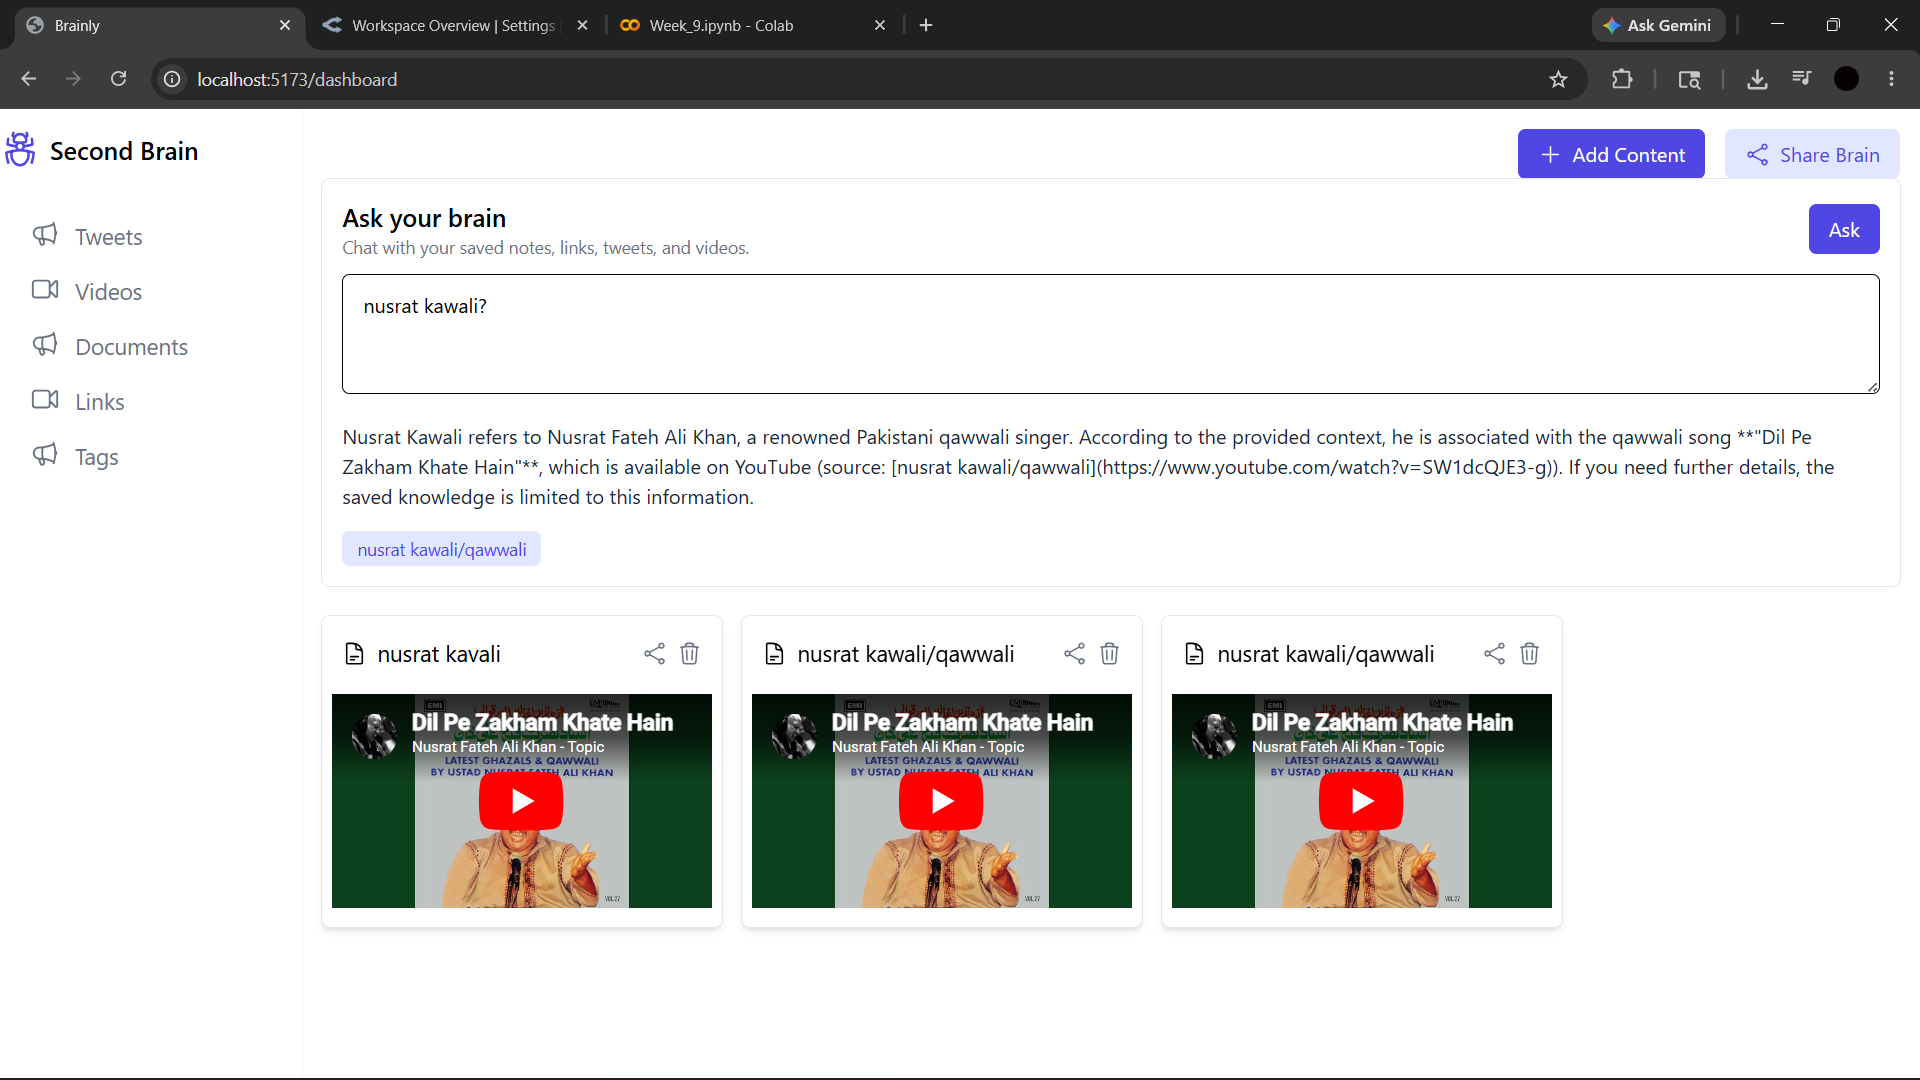
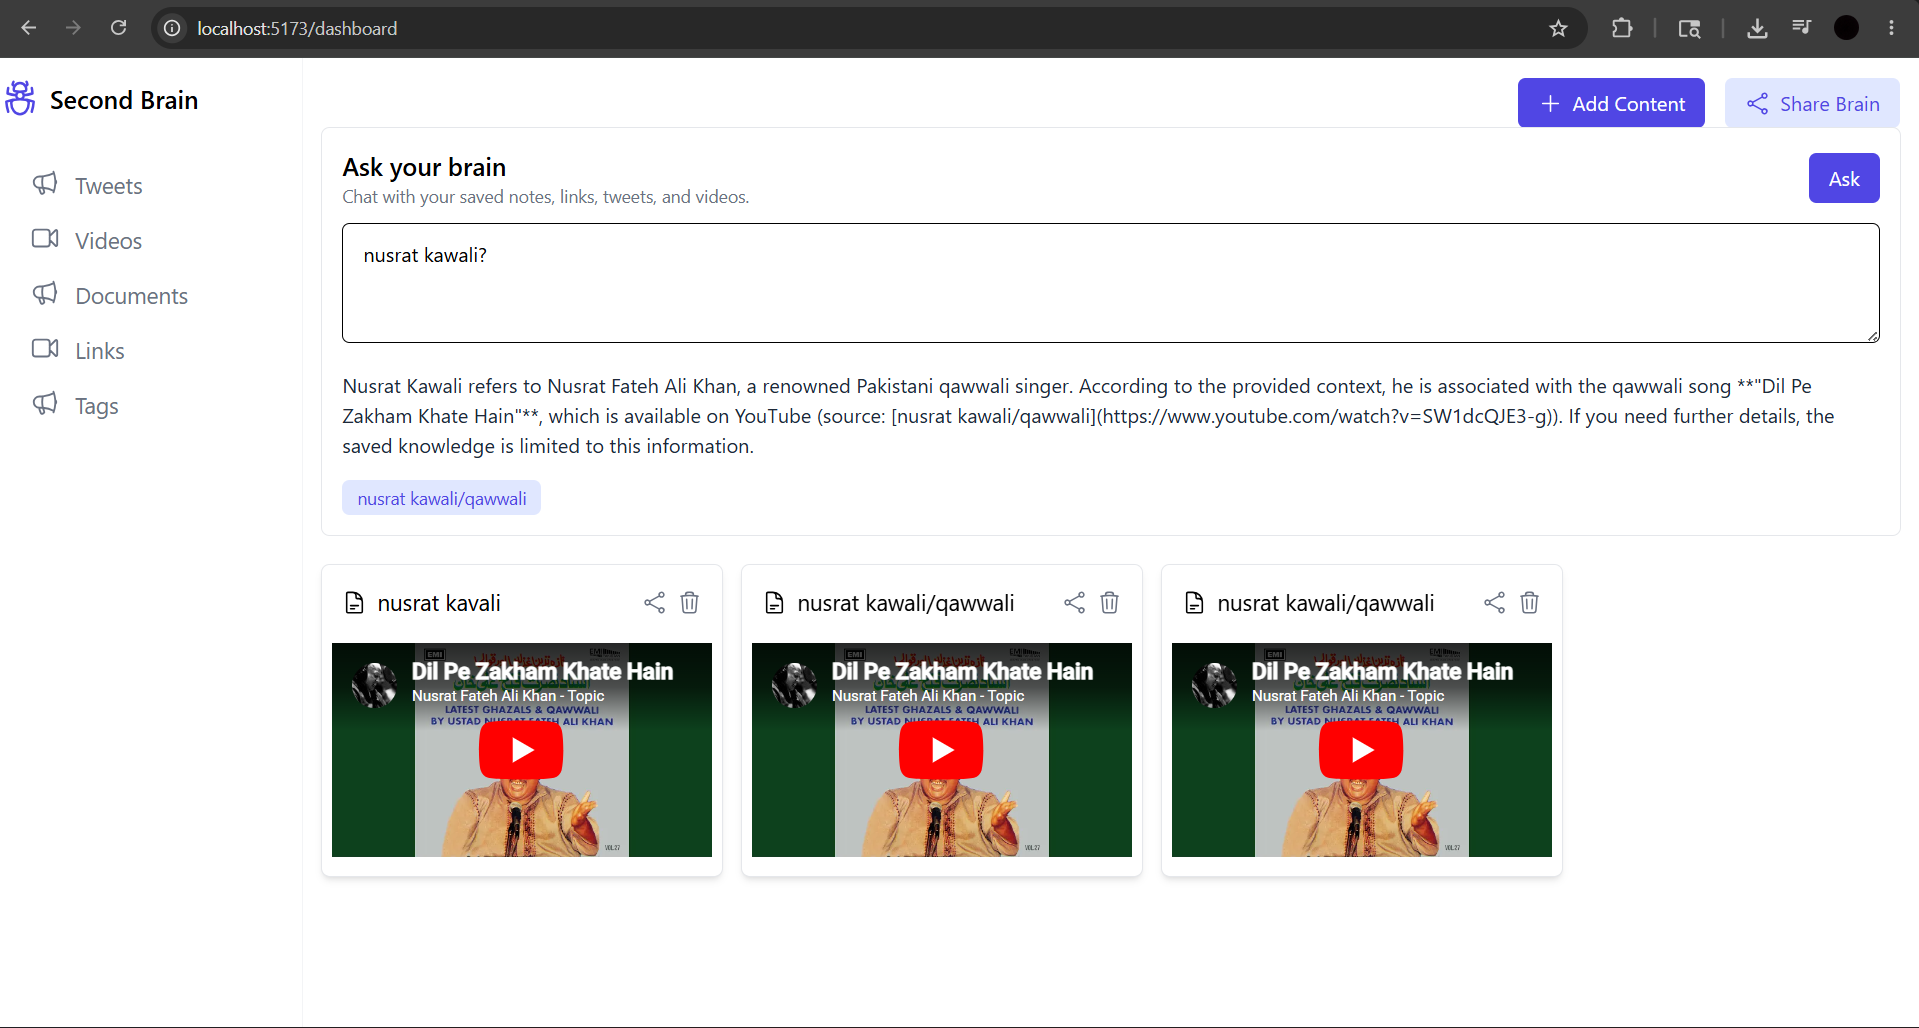
Update README.md

diff --git a/README.md b/README.md
@@ -2,10 +2,6 @@
 
 AI-powered second brain app.
 
-## Project Notes
-
-https://petal-estimate-4e9.notion.site/Building-a-second-brain-app-1407dfd1073580c19ac3cbe9afa9ac27
-
 ## RAG setup
 
 The app keeps user/content records in MongoDB and stores searchable knowledge chunks in Postgres with pgvector.